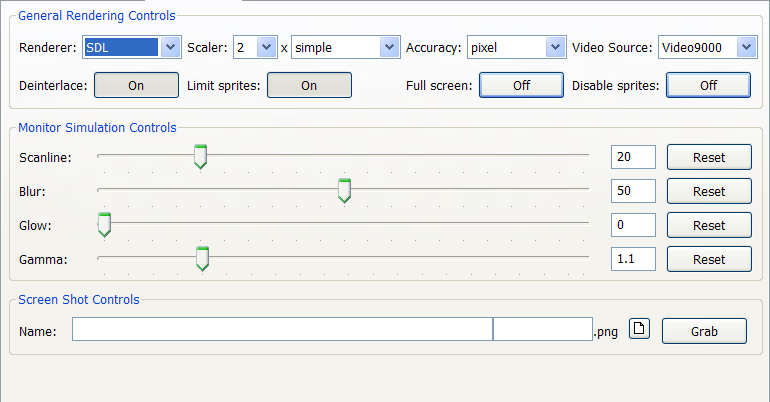
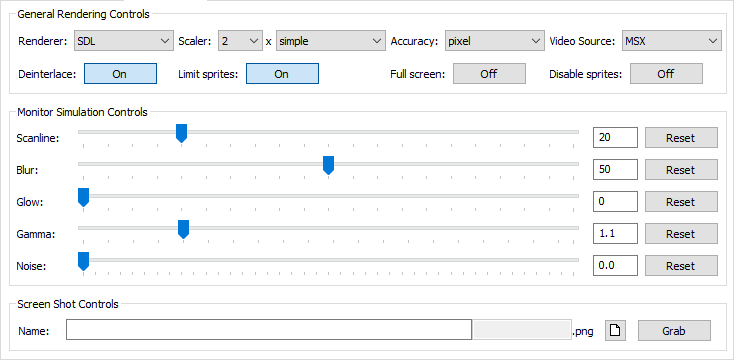
Update screenshot of video page (new noise setting there).

diff --git a/doc/manual/user.html b/doc/manual/user.html
@@ -304,9 +304,10 @@ not openMSX is running and the number of frames openMSX displayed per second
 <p>
 Below, you can see a screen shot of the Session Page. The left side is used to
 select the hardware of the MSX and the right side specifies which software
-should be inserted into the MSX. All screen shots in this manual were taken in
-Windows XP. In other systems, controls might look a little different but should
-still be easily recognisable.
+should be inserted into the MSX. Screen shots in this manual were taken in
+Windows XP, Windows 7 and Windows 10. So, we're mixing systems here... in
+general, controls might look a little different but should still be easily
+recognisable.
 </p>
 
 <p class="image">
@@ -613,7 +614,7 @@ If openMSX is not running, most controls will be disabled.
 </p>
 
 <p class="image">
-<img src="video.png" width="770" height="402" alt="Video Control Page"></img>
+<img src="video.png" width="734" height="360" alt="Video Control Page"></img>
 </p>
 
 <p>
